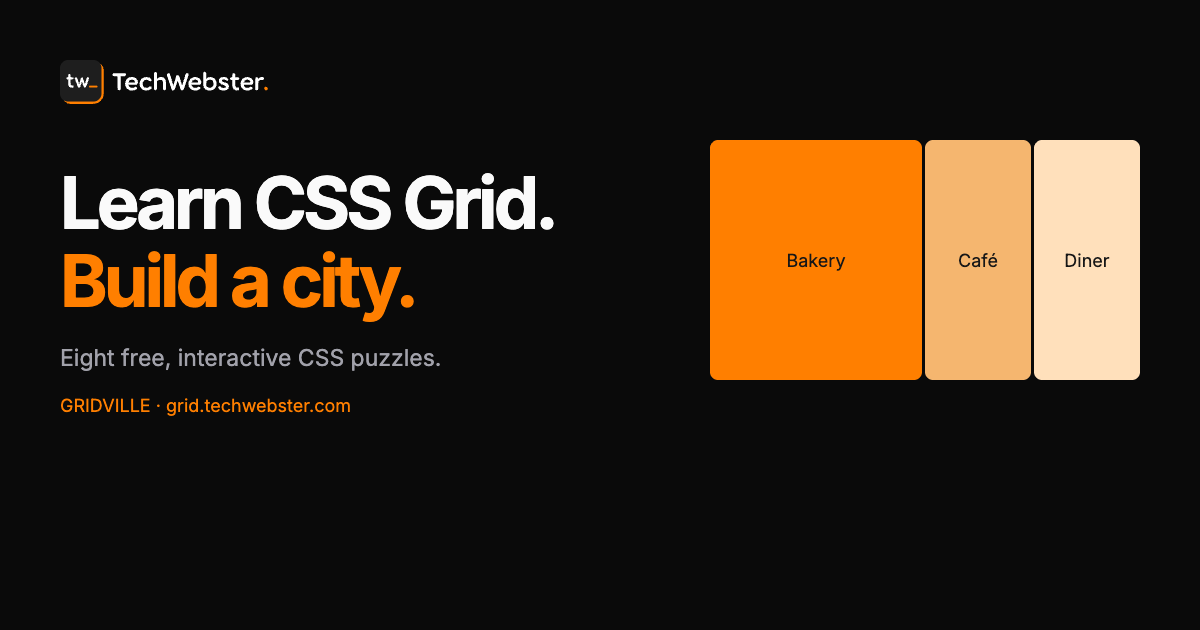
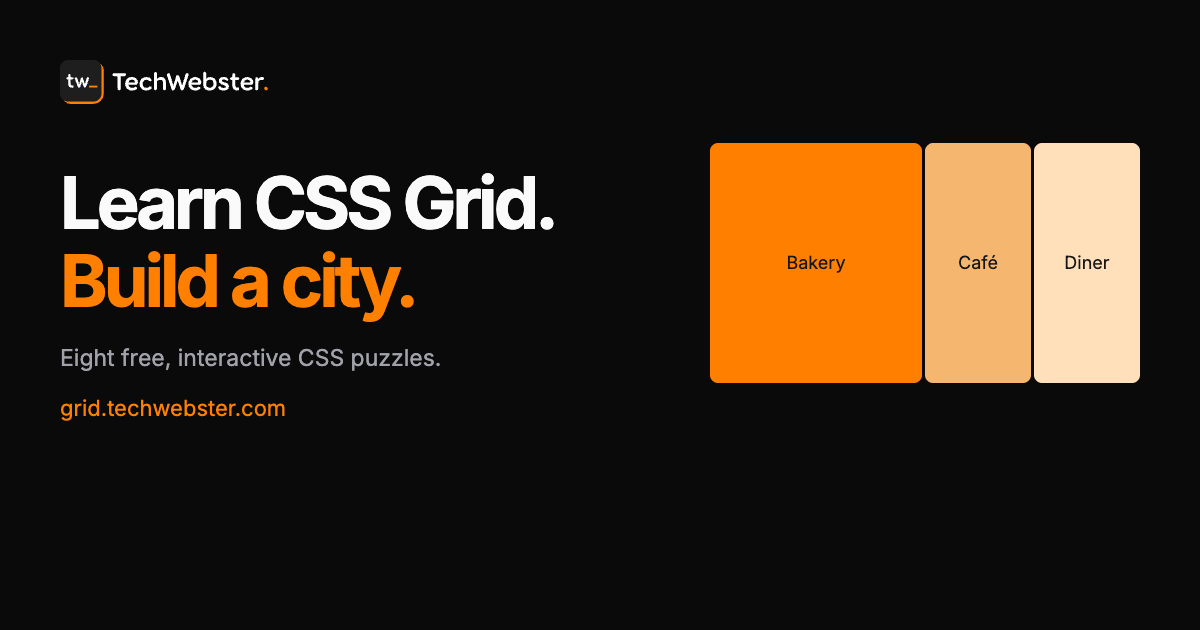
Use grid.techwebster.com as the product name

diff --git a/play/index.html b/play/index.html
@@ -1,16 +1,16 @@
 <!doctype html>
 <html lang="en"><head><meta charset="utf-8"><meta name="viewport" content="width=device-width, initial-scale=1">
-<title>Play GRIDVILLE — CSS Grid Puzzles | TechWebster</title><meta name="description" content="Practice CSS Grid in eight free coding puzzles. Write CSS to match city layouts, learn columns, rows, gap and grid areas, and save progress in your browser."><link rel="canonical" href="https://grid.techwebster.com/play/">
+<title>Play grid.techwebster.com — CSS Grid Puzzles | TechWebster</title><meta name="description" content="Practice CSS Grid in eight free coding puzzles. Write CSS to match city layouts, learn columns, rows, gap and grid areas, and save progress in your browser."><link rel="canonical" href="https://grid.techwebster.com/play/">
 <meta name="theme-color" content="#FF7F00"><meta name="color-scheme" content="dark"><meta name="author" content="TechWebster">
-<meta property="og:type" content="website"><meta property="og:site_name" content="GRIDVILLE by TechWebster"><meta property="og:title" content="Play GRIDVILLE — CSS Grid Puzzles | TechWebster"><meta property="og:description" content="Practice CSS Grid in eight free coding puzzles. Write CSS to match city layouts, learn columns, rows, gap and grid areas, and save progress in your browser."><meta property="og:url" content="https://grid.techwebster.com/play/">
-<meta property="og:image" content="https://grid.techwebster.com/assets/social-preview.png"><meta property="og:image:width" content="1200"><meta property="og:image:height" content="630"><meta property="og:image:alt" content="GRIDVILLE by TechWebster: learn CSS Grid by building a city">
-<meta name="twitter:card" content="summary_large_image"><meta name="twitter:title" content="Play GRIDVILLE — CSS Grid Puzzles | TechWebster"><meta name="twitter:description" content="Practice CSS Grid in eight free coding puzzles. Write CSS to match city layouts, learn columns, rows, gap and grid areas, and save progress in your browser."><meta name="twitter:image" content="https://grid.techwebster.com/assets/social-preview.png">
+<meta property="og:type" content="website"><meta property="og:site_name" content="grid.techwebster.com by TechWebster"><meta property="og:title" content="Play grid.techwebster.com — CSS Grid Puzzles | TechWebster"><meta property="og:description" content="Practice CSS Grid in eight free coding puzzles. Write CSS to match city layouts, learn columns, rows, gap and grid areas, and save progress in your browser."><meta property="og:url" content="https://grid.techwebster.com/play/">
+<meta property="og:image" content="https://grid.techwebster.com/assets/social-preview.png"><meta property="og:image:width" content="1200"><meta property="og:image:height" content="630"><meta property="og:image:alt" content="grid.techwebster.com by TechWebster: learn CSS Grid by building a city">
+<meta name="twitter:card" content="summary_large_image"><meta name="twitter:title" content="Play grid.techwebster.com — CSS Grid Puzzles | TechWebster"><meta name="twitter:description" content="Practice CSS Grid in eight free coding puzzles. Write CSS to match city layouts, learn columns, rows, gap and grid areas, and save progress in your browser."><meta name="twitter:image" content="https://grid.techwebster.com/assets/social-preview.png">
 <link rel="icon" href="../assets/favicon.ico" sizes="any"><link rel="apple-touch-icon" href="../assets/apple-touch-icon.png"><link rel="preload" href="../assets/inter-latin.woff2" as="font" type="font/woff2" crossorigin>
 <link rel="stylesheet" href="../game.css"><link rel="stylesheet" href="../site.css">
-<script type="application/ld+json">{"@context": "https://schema.org", "@graph": [{"@type": "Organization", "@id": "https://www.techwebster.com/#organization", "name": "TechWebster", "url": "https://www.techwebster.com/", "logo": "https://www.techwebster.com/logo-white.svg"}, {"@type": "WebApplication", "@id": "https://grid.techwebster.com/#app", "name": "GRIDVILLE", "url": "https://grid.techwebster.com/play/", "description": "Practice CSS Grid in eight free coding puzzles. Write CSS to match city layouts, learn columns, rows, gap and grid areas, and save progress in your browser.", "applicationCategory": "EducationalApplication", "operatingSystem": "Any", "isAccessibleForFree": true, "inLanguage": "en", "publisher": {"@id": "https://www.techwebster.com/#organization"}}, {"@type": "WebPage", "url": "https://grid.techwebster.com/play/", "name": "Play GRIDVILLE \u2014 CSS Grid Puzzles | TechWebster", "mainEntity": {"@id": "https://grid.techwebster.com/#app"}}]}</script></head><body class="game-page"><a class="skip-link" href="#app">Skip to game</a>  <div id="view-game">
+<script type="application/ld+json">{"@context": "https://schema.org", "@graph": [{"@type": "Organization", "@id": "https://www.techwebster.com/#organization", "name": "TechWebster", "url": "https://www.techwebster.com/", "logo": "https://www.techwebster.com/logo-white.svg"}, {"@type": "WebApplication", "@id": "https://grid.techwebster.com/#app", "name": "grid.techwebster.com", "url": "https://grid.techwebster.com/play/", "description": "Practice CSS Grid in eight free coding puzzles. Write CSS to match city layouts, learn columns, rows, gap and grid areas, and save progress in your browser.", "applicationCategory": "EducationalApplication", "operatingSystem": "Any", "isAccessibleForFree": true, "inLanguage": "en", "publisher": {"@id": "https://www.techwebster.com/#organization"}}, {"@type": "WebPage", "url": "https://grid.techwebster.com/play/", "name": "Play grid.techwebster.com \u2014 CSS Grid Puzzles | TechWebster", "mainEntity": {"@id": "https://grid.techwebster.com/#app"}}]}</script></head><body class="game-page"><a class="skip-link" href="#app">Skip to game</a>  <div id="view-game">
   <header class="topbar">
     <a class="home-link" href="../">← Home</a>
-    <h1>GRIDVILLE<span class="visually-hidden"> — Learn CSS Grid by Building a City</span></h1>
+    <h1>grid.techwebster.com<span class="visually-hidden"> — Learn CSS Grid by Building a City</span></h1>
     
     <span class="progress" id="progress"></span>
     <a class="brand" href="https://www.techwebster.com/"><img src="../assets/techwebster-logo.svg" width="140" height="30" alt="TechWebster"></a>
@@ -64,7 +64,7 @@
     </div>
   </div>
 
-  <dialog id="how-dialog" aria-labelledby="how-title"><h2 id="how-title">How to play</h2><p>Write CSS for <code>.board</code> and the named buildings. Match every dashed zone, then check your layout.</p><p>Use the level buttons to switch puzzles. Solutions unlock after two failed checks. Fewer failed checks earn more stars.</p><p>Ctrl or ⌘ + Enter checks your CSS. Tab moves between controls. Your code and progress save in this browser.</p><form method="dialog"><button class="quiet">Close</button></form></dialog><dialog id="settings-dialog" aria-labelledby="settings-title"><h2 id="settings-title">Settings</h2><p>Reset the current puzzle’s CSS to its starting point. Earned stars are kept.</p><button class="action ghosty" id="btn-reset">Reset current CSS</button><form method="dialog"><button class="quiet">Close</button></form></dialog><noscript><p>Enable JavaScript to play GRIDVILLE. <a href="../">Return home</a>.</p></noscript><footer class="site-footer"><span>A product by <a href="https://www.techwebster.com/">TechWebster</a></span><nav aria-label="Related products"><a href="https://css-positions.techwebster.com/">CSS Positions ↗</a><a href="https://www.techwebster.com/products/code-editor">Code Editor ↗</a><a href="https://www.techwebster.com/products">All products ↗</a></nav></footer><div id="confetti"></div>
+  <dialog id="how-dialog" aria-labelledby="how-title"><h2 id="how-title">How to play</h2><p>Write CSS for <code>.board</code> and the named buildings. Match every dashed zone, then check your layout.</p><p>Use the level buttons to switch puzzles. Solutions unlock after two failed checks. Fewer failed checks earn more stars.</p><p>Ctrl or ⌘ + Enter checks your CSS. Tab moves between controls. Your code and progress save in this browser.</p><form method="dialog"><button class="quiet">Close</button></form></dialog><dialog id="settings-dialog" aria-labelledby="settings-title"><h2 id="settings-title">Settings</h2><p>Reset the current puzzle’s CSS to its starting point. Earned stars are kept.</p><button class="action ghosty" id="btn-reset">Reset current CSS</button><form method="dialog"><button class="quiet">Close</button></form></dialog><noscript><p>Enable JavaScript to play grid.techwebster.com. <a href="../">Return home</a>.</p></noscript><footer class="site-footer"><span>A product by <a href="https://www.techwebster.com/">TechWebster</a></span><nav aria-label="Related products"><a href="https://css-positions.techwebster.com/">CSS Positions ↗</a><a href="https://www.techwebster.com/products/code-editor">Code Editor ↗</a><a href="https://www.techwebster.com/products">All products ↗</a></nav></footer><div id="confetti"></div>
 
   <style id="player-style"></style>
   <script src="../levels.js"></script>

diff --git a/index.html b/index.html
@@ -1,11 +1,11 @@
 <!doctype html>
 <html lang="en"><head><meta charset="utf-8"><meta name="viewport" content="width=device-width, initial-scale=1">
-<title>Learn CSS Grid by Playing — GRIDVILLE | TechWebster</title><meta name="description" content="Practice CSS Grid in eight free coding puzzles. Write CSS to match city layouts, learn columns, rows, gap and grid areas, and save progress in your browser."><link rel="canonical" href="https://grid.techwebster.com/">
+<title>Learn CSS Grid by Playing — grid.techwebster.com | TechWebster</title><meta name="description" content="Practice CSS Grid in eight free coding puzzles. Write CSS to match city layouts, learn columns, rows, gap and grid areas, and save progress in your browser."><link rel="canonical" href="https://grid.techwebster.com/">
 <meta name="theme-color" content="#FF7F00"><meta name="color-scheme" content="dark"><meta name="author" content="TechWebster">
-<meta property="og:type" content="website"><meta property="og:site_name" content="GRIDVILLE by TechWebster"><meta property="og:title" content="Learn CSS Grid by Playing — GRIDVILLE | TechWebster"><meta property="og:description" content="Practice CSS Grid in eight free coding puzzles. Write CSS to match city layouts, learn columns, rows, gap and grid areas, and save progress in your browser."><meta property="og:url" content="https://grid.techwebster.com/">
-<meta property="og:image" content="https://grid.techwebster.com/assets/social-preview.png"><meta property="og:image:width" content="1200"><meta property="og:image:height" content="630"><meta property="og:image:alt" content="GRIDVILLE by TechWebster: learn CSS Grid by building a city">
-<meta name="twitter:card" content="summary_large_image"><meta name="twitter:title" content="Learn CSS Grid by Playing — GRIDVILLE | TechWebster"><meta name="twitter:description" content="Practice CSS Grid in eight free coding puzzles. Write CSS to match city layouts, learn columns, rows, gap and grid areas, and save progress in your browser."><meta name="twitter:image" content="https://grid.techwebster.com/assets/social-preview.png">
+<meta property="og:type" content="website"><meta property="og:site_name" content="grid.techwebster.com by TechWebster"><meta property="og:title" content="Learn CSS Grid by Playing — grid.techwebster.com | TechWebster"><meta property="og:description" content="Practice CSS Grid in eight free coding puzzles. Write CSS to match city layouts, learn columns, rows, gap and grid areas, and save progress in your browser."><meta property="og:url" content="https://grid.techwebster.com/">
+<meta property="og:image" content="https://grid.techwebster.com/assets/social-preview.png"><meta property="og:image:width" content="1200"><meta property="og:image:height" content="630"><meta property="og:image:alt" content="grid.techwebster.com by TechWebster: learn CSS Grid by building a city">
+<meta name="twitter:card" content="summary_large_image"><meta name="twitter:title" content="Learn CSS Grid by Playing — grid.techwebster.com | TechWebster"><meta name="twitter:description" content="Practice CSS Grid in eight free coding puzzles. Write CSS to match city layouts, learn columns, rows, gap and grid areas, and save progress in your browser."><meta name="twitter:image" content="https://grid.techwebster.com/assets/social-preview.png">
 <link rel="icon" href="assets/favicon.ico" sizes="any"><link rel="apple-touch-icon" href="assets/apple-touch-icon.png"><link rel="preload" href="assets/inter-latin.woff2" as="font" type="font/woff2" crossorigin>
 <link rel="stylesheet" href="site.css">
-<script type="application/ld+json">{"@context": "https://schema.org", "@graph": [{"@type": "Organization", "@id": "https://www.techwebster.com/#organization", "name": "TechWebster", "url": "https://www.techwebster.com/", "logo": "https://www.techwebster.com/logo-white.svg"}, {"@type": "WebApplication", "@id": "https://grid.techwebster.com/#app", "name": "GRIDVILLE", "url": "https://grid.techwebster.com/play/", "description": "Practice CSS Grid in eight free coding puzzles. Write CSS to match city layouts, learn columns, rows, gap and grid areas, and save progress in your browser.", "applicationCategory": "EducationalApplication", "operatingSystem": "Any", "isAccessibleForFree": true, "inLanguage": "en", "publisher": {"@id": "https://www.techwebster.com/#organization"}}, {"@type": "WebPage", "url": "https://grid.techwebster.com/", "name": "Learn CSS Grid by Playing \u2014 GRIDVILLE | TechWebster", "mainEntity": {"@id": "https://grid.techwebster.com/#app"}}]}</script></head><body class="landing-page"><a class="skip-link" href="#main-content">Skip to content</a><header class="brand-nav"><a href="https://www.techwebster.com/" aria-label="TechWebster home"><img src="assets/techwebster-logo.svg" width="180" height="38" alt="TechWebster"></a><a href="https://www.techwebster.com/products">Explore products ↗</a></header><main id="main-content" class="hero"><section class="hero-copy" aria-labelledby="title"><p class="eyebrow">GRIDVILLE / by TechWebster</p><h1 id="title">Learn CSS Grid.<br><span>Build a city.</span></h1><p class="description">Write real CSS to match the blueprint. Build your way through eight interactive grid layout puzzles, from three shops to a whole town square.</p><p class="topics">Columns. Rows. Gaps. Spans. Grid areas.</p><a class="play-cta" href="play/">Play GRIDVILLE <span aria-hidden="true">↗</span></a><p class="play-note">Free · No sign-up · Progress saved in your browser</p></section>
+<script type="application/ld+json">{"@context": "https://schema.org", "@graph": [{"@type": "Organization", "@id": "https://www.techwebster.com/#organization", "name": "TechWebster", "url": "https://www.techwebster.com/", "logo": "https://www.techwebster.com/logo-white.svg"}, {"@type": "WebApplication", "@id": "https://grid.techwebster.com/#app", "name": "grid.techwebster.com", "url": "https://grid.techwebster.com/play/", "description": "Practice CSS Grid in eight free coding puzzles. Write CSS to match city layouts, learn columns, rows, gap and grid areas, and save progress in your browser.", "applicationCategory": "EducationalApplication", "operatingSystem": "Any", "isAccessibleForFree": true, "inLanguage": "en", "publisher": {"@id": "https://www.techwebster.com/#organization"}}, {"@type": "WebPage", "url": "https://grid.techwebster.com/", "name": "Learn CSS Grid by Playing \u2014 grid.techwebster.com | TechWebster", "mainEntity": {"@id": "https://grid.techwebster.com/#app"}}]}</script></head><body class="landing-page"><a class="skip-link" href="#main-content">Skip to content</a><header class="brand-nav"><a href="https://www.techwebster.com/" aria-label="TechWebster home"><img src="assets/techwebster-logo.svg" width="180" height="38" alt="TechWebster"></a><a href="https://www.techwebster.com/products">Explore products ↗</a></header><main id="main-content" class="hero"><section class="hero-copy" aria-labelledby="title"><p class="eyebrow">grid.techwebster.com / by TechWebster</p><h1 id="title">Learn CSS Grid.<br><span>Build a city.</span></h1><p class="description">Write real CSS to match the blueprint. Build your way through eight interactive grid layout puzzles, from three shops to a whole town square.</p><p class="topics">Columns. Rows. Gaps. Spans. Grid areas.</p><a class="play-cta" href="play/">Play game <span aria-hidden="true">↗</span></a><p class="play-note">Free · No sign-up · Progress saved in your browser</p></section>
 <figure class="preview" aria-label="Live CSS Grid example with three shops"><div class="preview-bar"><span>MAIN STREET / GRID PREVIEW</span><button id="preview-toggle" hidden>Pause animation</button></div><div class="preview-board" id="preview-board" style="grid-template-columns:1fr 1fr 1fr"><div><svg viewBox="0 0 32 32" aria-hidden="true"><path d="M5 12L7 5h18l2 7M6 12h20v13H6zM13 25v-6h6v6"/></svg><span>Bakery</span></div><div><svg viewBox="0 0 32 32" aria-hidden="true"><path d="M8 12h13v7a6 6 0 0 1-6 6h-1a6 6 0 0 1-6-6zM21 14h2a3 3 0 0 1 0 6h-2M11 8V4M16 8V4"/></svg><span>Café</span></div><div><svg viewBox="0 0 32 32" aria-hidden="true"><path d="M7 13a9 6 0 0 1 18 0M6 13h20M6 18h20M7 18c0 4 4 7 9 7s9-3 9-7"/></svg><span>Diner</span></div></div><figcaption><code>display: grid;<br>grid-template-columns: <b id="preview-columns">1fr 1fr 1fr</b>;</code><p>Change the columns. See the shops resize.</p></figcaption></figure></main><footer class="site-footer"><span>A product by <a href="https://www.techwebster.com/">TechWebster</a></span><nav aria-label="Related products"><a href="https://css-positions.techwebster.com/">CSS Positions ↗</a><a href="https://www.techwebster.com/products/code-editor">Code Editor ↗</a><a href="https://www.techwebster.com/products">All products ↗</a></nav></footer><script src="landing.js" defer></script></body></html>

diff --git a/site.css b/site.css
@@ -5,3 +5,7 @@
 @media(max-width:900px){.hero{gap:30px;padding:48px 28px 64px}.brand-nav{padding:24px 28px}.hero h1{font-size:44px}.site-footer{margin:0 28px}.stage{grid-template-columns:minmax(0,1fr)}.board{height:320px}}
 @media(max-width:640px){.brand-nav{padding:22px 20px}.brand-nav img{width:145px;height:31px}.brand-nav>a:last-child{font-size:11px}.hero{grid-template-columns:1fr;padding:40px 20px 48px;gap:42px}.hero h1{font-size:48px}.description{font-size:15px}.preview-board{height:220px}.preview-bar{padding:12px}.preview-bar>span{font-size:9px}.preview figcaption{padding:20px 12px}.preview code{font-size:11px}.site-footer{margin:0 20px;padding:24px 0;line-height:1.8}.site-footer nav{gap:16px}.topbar{padding:14px 16px;gap:12px}.topbar .brand{margin-left:auto}.topbar .brand img{width:115px}.topbar .progress{order:4;width:100%;margin:0}.game-tools{padding:12px 16px}#level-strip{padding:0 16px 16px;gap:6px}.pill{padding:7px 11px}.stage{padding:0 16px 24px;gap:20px}.level-label{padding:0 16px}.panel{padding:16px}#editor{font-size:16px}.game-page .site-footer{margin:0 16px}.board{height:280px}}
 @media(prefers-reduced-motion:reduce){*,*::before,*::after{animation:none!important;transition:none!important;scroll-behavior:auto!important}}
+
+/* Keep the domain name readable as the product identity. */
+.eyebrow{text-transform:none}.topbar h1{letter-spacing:-.025em;font-size:18px}
+@media(max-width:640px){.topbar h1{font-size:16px}.topbar .brand{margin-left:0}.topbar .progress{width:auto;margin-left:auto}}

diff --git a/BRAND-AND-DELIVERY.md b/BRAND-AND-DELIVERY.md
@@ -1,4 +1,4 @@
-# GRIDVILLE refresh
+# grid.techwebster.com refresh
 
 Brand verified 6 September 2026 against https://www.techwebster.com/ and its current stylesheet. The company is the full-stack software studio in Bhubaneswar, Odisha. Its linked LinkedIn profile (https://www.linkedin.com/company/tech-webster/) and DEV profile (https://dev.to/techwebster) confirm the domain and identity. Search also returned TechWebsters at techwebsters.org; that is a different business and was not used.
 

diff --git a/README.md b/README.md
@@ -1,4 +1,4 @@
-# GRIDVILLE
+# grid.techwebster.com
 
 Build a city. Master CSS Grid. Write real CSS — the city judges you.
 
